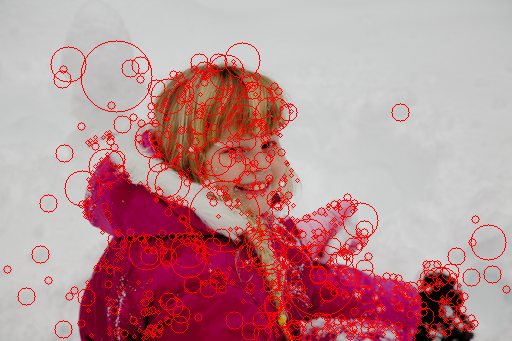
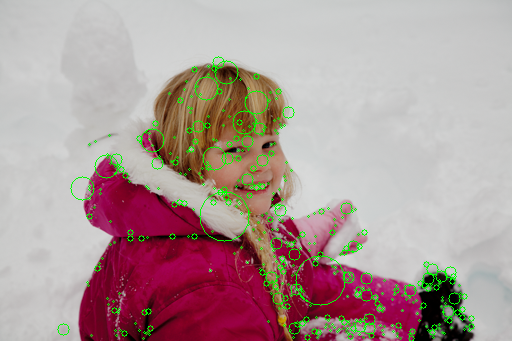
sift 关键点定位与检测基本完成了, 不一定对

diff --git a/sift/cpu/src/sift.cpp b/sift/cpu/src/sift.cpp
@@ -3,6 +3,9 @@
 #include <chrono>
 #include <vector>
 #include <iostream>
+// Eigen3
+#include <Eigen/Core>
+#include <Eigen/Dense>
 // opencv
 #include <opencv2/dnn.hpp>
 #include <opencv2/opencv.hpp>
@@ -52,15 +55,6 @@ namespace {
 }
 
 
-
-struct keypoint_type {
-    cv::Point pos;
-    int size;
-    float response;
-    keypoint_type(const int x, const int y, const int _size, const float _response)
-        : pos(x, y), size(_size), response(_response) {}
-};
-
 std::vector< std::vector<cv::Mat> > build_DOG_pyramid(const cv::Mat& source, const int S=3, const float sigma=1.6, const int min_size=4) {
     // 首先上采样得到第一张图
     cv::Mat first_image;
@@ -94,11 +88,10 @@ std::vector< std::vector<cv::Mat> > build_DOG_pyramid(const cv::Mat& source, con
         this_octave.emplace_back(cur_scale.clone()); // 起始图像都已经做了高斯模糊了, first_image 和上一组的倒数第三张
         for(int j = 1; j < images_num; ++j) {
             cv::GaussianBlur(cur_scale, cur_scale, {0, 0}, sigmas_list[j], sigmas_list[j]);
-            this_octave.emplace_back(cur_scale.clone());
+            this_octave.emplace_back(cur_scale.clone()); // 这里不用 clone() 很坑爹啊
         }
         gaussi_scaled_pyramid.emplace_back(this_octave);
     }
-
     // 得到高斯差分金字塔
     std::vector< std::vector<cv::Mat> > DOG_pyramid;
     for(int i = 0;i < octaves_num; ++i) {
@@ -107,20 +100,49 @@ std::vector< std::vector<cv::Mat> > build_DOG_pyramid(const cv::Mat& source, con
         for(int j = 1;j < images_num; ++j)
             this_octave.emplace_back(gaussi_scaled_pyramid[i][j] - gaussi_scaled_pyramid[i][j - 1]);
         DOG_pyramid.emplace_back(this_octave);
-//        std::cout << this_octave[0].row(0) << std::endl;
-//        cv::Mat temp;
-//        this_octave[0].convertTo(temp, CV_8UC1);
-//        cv_show(temp);
     }
     return DOG_pyramid;
 }
+
+
+inline bool is_local_extremum(const float center, const float* const down, const float* const mid, const float* const up, const int j, const int W) {
+    return (center > 0 and center > mid[j - 1] and center > mid[j + 1] and
+           center > mid[j - 1 - W] and center > mid[j - W] and center > mid[j + 1 - W] and
+           center > mid[j - 1 + W] and center > mid[j + W] and center > mid[j + 1 + W] and
+           center > down[j - 1] and center > down[j] and center > down[j + 1] and
+           center > down[j - 1 - W] and center > down[j - W] and center > down[j + 1 - W] and
+           center > down[j - 1 + W] and center > down[j + W] and center > down[j + 1 + W] and
+           center > up[j - 1] and center > up[j] and center > up[j + 1] and
+           center > up[j - 1 - W] and center > up[j - W] and center > up[j + 1 - W] and
+           center > up[j - 1 + W] and center > up[j + W] and center > up[j + 1 + W])
+           or
+           (center < 0 and center < mid[j - 1] and center < mid[j + 1] and
+           center < mid[j - 1 - W] and center < mid[j - W] and center < mid[j + 1 - W] and
+           center < mid[j - 1 + W] and center < mid[j + W] and center < mid[j + 1 + W] and
+           center < down[j - 1] and center < down[j] and center < down[j + 1] and
+           center < down[j - 1 - W] and center < down[j - W] and center < down[j + 1 - W] and
+           center < down[j - 1 + W] and center < down[j + W] and center < down[j + 1 + W] and
+           center < up[j - 1] and center < up[j] and center < up[j + 1] and
+           center < up[j - 1 - W] and center < up[j - W] and center < up[j + 1 - W] and
+           center < up[j - 1 + W] and center < up[j + W] and center < up[j + 1 + W]);
+}
+
+
+struct keypoint_type {
+    cv::Point pos; // 位置坐标
+    int size;      // 关键点的尺寸
+    float response;// 插值之后的 DOG 响应值
+    keypoint_type(const int x, const int y, const int _size, const float _response)
+        : pos(x, y), size(_size), response(_response) {}
+};
 
 std::vector<keypoint_type> sift_detect_keypoints(
         const cv::Mat& _source,
         const int S=3,
         const float sigma=1.6,
         const int min_size=4,
-        const float contrast_threshold=0.04) {
+        const float contrast_threshold=0.05,
+        const float gamma=10.0) {
     // 转化成灰度图, 类型 float
     cv::Mat source;
     cv::cvtColor(_source, source, cv::COLOR_BGR2GRAY);
@@ -130,45 +152,89 @@ std::vector<keypoint_type> sift_detect_keypoints(
     const auto DOG_pyramid = build_DOG_pyramid(source, S, sigma, min_size);
     // 寻找尺度空间极值 (x, y, sigma)
     const float threshold = std::floor(0.5 * contrast_threshold / S * 255);
-    std::cout << "threshold  " << threshold << std::endl;
     std::vector<keypoint_type> keypoints;
     const int octaves_num = DOG_pyramid.size();
     const int images_num = DOG_pyramid[0].size();
-    for(int o = 0;o < octaves_num; ++o) {
-        for(int s = 1;s < images_num - 1; ++s) {
-            // 获取上中下三组图像
+    for(int o = 0;o < octaves_num; ++o) { // 每一组
+        for(int s = 1;s < images_num - 1; ++s) { // 从中间的几层上的点开始, 所以是 1 ~ images_num - 1
+            // 获取上中下三组图像的引用
             const auto& down_image = DOG_pyramid[o][s - 1];
             const auto& mid_image = DOG_pyramid[o][s];
             const auto& up_image = DOG_pyramid[o][s + 1];
             const int H = mid_image.rows, W = mid_image.cols;
             const int H_1 = H - 1, W_1 = W - 1;
-            // 判断每个点是不是局部极值, mid[i][j] 和
+            // 遍历每一个点, 判断每个点是不是局部极值
             for(int i = 1;i < H_1; ++i) {
                 const float* const down = down_image.ptr<float>() + i * W;
                 const float* const mid = mid_image.ptr<float>() + i * W;
                 const float* const up = up_image.ptr<float>() + i * W;
                 for(int j = 1;j < W_1; ++j) {
-                    const float center = std::abs(mid[j]);
-                    if(center < threshold)
+                    const float center = mid[j];
+                    if(std::abs(center) < threshold)  // 去掉一些响应值过小的关键点, 这里的响应值是 DOG 响应值
                         continue;
-                    if(center > std::abs(mid[j - 1]) and center > std::abs(mid[j + 1]) and
-                       center > std::abs(mid[j - 1 - W]) and center > std::abs(mid[j - W]) and center > std::abs(mid[j + 1 - W]) and
-                       center > std::abs(mid[j - 1 + W]) and center > std::abs(mid[j + W]) and center > std::abs(mid[j + 1 + W]) and
-                       center > std::abs(down[j - 1]) and center > std::abs(down[j]) and center > std::abs(down[j + 1]) and
-                       center > std::abs(down[j - 1 - W]) and center > std::abs(down[j - W]) and center > std::abs(down[j + 1 - W]) and
-                       center > std::abs(down[j - 1 + W]) and center > std::abs(down[j + W]) and center > std::abs(down[j + 1 + W]) and
-                       center > std::abs(up[j - 1]) and center > std::abs(up[j]) and center > std::abs(up[j + 1]) and
-                       center > std::abs(up[j - 1 - W]) and center > std::abs(up[j - W]) and center > std::abs(up[j + 1 - W]) and
-                       center > std::abs(up[j - 1 + W]) and center > std::abs(up[j + W]) and center > std::abs(up[j + 1 + W])) {
+                    if(is_local_extremum(center, down, mid, up, j, W)) { // 如果是局部极值
+                        /*
                         const float temp = std::pow(2, o - 1);
                         const int size = sigma * std::pow(2, s / S)  * temp * 2; // 1.414
                         keypoints.emplace_back(j * temp, i * temp, size, center);
+                        */
+                        // 做更精准的插值, 找到更好的坐标以及尺度
+                        constexpr int max_iters = 5;  // 最多迭代 5 次
+                        bool convergence = false; // 是否收敛
+                        float response; // 插值之后的响应值极值
+                        int i2 = i, j2 = j, s2 = s;  // 注意这里的 i2, j2, s2 是在不断更新的, 相邻三层 down, mid, up 的行指针也要重新赋值
+                        float D_xx, D_yy, D_sigma_2, D_xy, D_x_sigma, D_y_sigma;
+                        for(int t = 0;t < max_iters; ++t) {
+                            // 首先获取新的指针
+                            const float* mid2 = mid_image.ptr<float>() + i2 * W;
+                            const float* down2 = down_image.ptr<float>() + i2 * W;
+                            const float* up2 = up_image.ptr<float>() + i2 * W;
+                            // 首先对 i2, j2, s2  这个点局部求一阶导数和二阶海斯矩阵
+                            Eigen::Matrix<float, 3, 1> D_x;
+                            D_x << 0.5f * (mid2[j2 + 1] - mid2[j2 - 1]), 0.5f * (mid2[j2 + W] - mid2[j2 - W]), 0.5f * (up2[j2] - down2[j2]);
+                            Eigen::Matrix<float, 3, 3> DD_x;
+                            D_xx = mid2[j2 + 1] + mid2[j2 - 1] - 2 * mid2[j2];
+                            D_yy = mid2[j2 + W] + mid2[j2 - W] - 2 * mid2[j2];
+                            D_sigma_2 = up2[j2] + down2[j2] - 2 * mid2[j2];
+                            D_xy = (mid2[j2 + W + 1] + mid2[j2 - W - 1] - mid2[j2 + W - 1] - mid2[j2 - W + 1]) / 4.f;
+                            D_x_sigma = (up2[j2 + 1] + down2[j2 - 1] - up2[j2 - 1] - down2[j2 + 1]) / 4.f;
+                            D_y_sigma = (up2[j2 + W] + down2[j2 - W] - up2[j2 - W] - down2[j2 + W]) / 4.f;
+                            DD_x << D_xx, D_xy, D_x_sigma,
+                                    D_xy, D_yy, D_y_sigma,
+                                    D_x_sigma, D_y_sigma, D_sigma_2;
+                            // 求极值点的偏移量
+                            const Eigen::Matrix<float, 3, 1> offset = - DD_x.inverse() * D_x;
+                            // 判断是否收敛
+                            if(std::abs(offset(0)) < 0.5f and std::abs(offset(1)) < 0.5f and std::abs(offset(2)) < 0.5f) {
+                                convergence = true;
+                                response = mid2[j2] + 0.5 * D_x.transpose() * offset; // 更新这个地方的极值
+                                break;
+                            }
+                            // 根据偏移量关键点在尺度空间的位置
+                            j2 += int(offset(0));
+                            i2 += int(offset(1));
+                            s2 += int(offset(2));
+                            // 如果越界了, 退出迭代
+                            if(s2 < 1 or s2 > images_num - 2 or i2 < 1 or i2 > H_1 or j2 < 1 or j2 > W_1)
+                                break;
+                        }
+                        // 如果结果是收敛了
+                        if(convergence) {
+                            // 继续下一步, 去除边缘响应太强的点
+                            const float trace = D_xx + D_yy;
+                            const float det = D_xx * D_yy - D_xy * D_xy;
+                            if((trace * trace) / det < (gamma + 1) * (gamma + 1) / gamma and det > 0) {
+                                // 根据极值点 (j2, i2, s2) 恢复到原始分辨率的大小
+                                const float temp = std::pow(2, o - 1);
+                                const int size = sigma * std::pow(2, s2 / S)  * temp * 2; // 1.414
+                                keypoints.emplace_back(j2 * temp, i2 * temp, size, response);
+                            }
+                        }
                     }
                 }
             }
         }
     }
-    std::cout << "收集到 " << keypoints.size() << " 个点\n";
     return keypoints;
 }
 
@@ -184,7 +250,7 @@ int main() {
     // 展示与保存
     auto display = source_image.clone();
     for(const auto& point : keypoints)
-        cv::circle(display, point.pos, point.size, CV_RGB(255, 0, 0), 1);
+        cv::circle(display, point.pos, point.size, CV_RGB(0, 255, 0), 1);
     cv_show(display);
     cv_write(display, "./images/output/keypoints_1.png");
     return 0;
